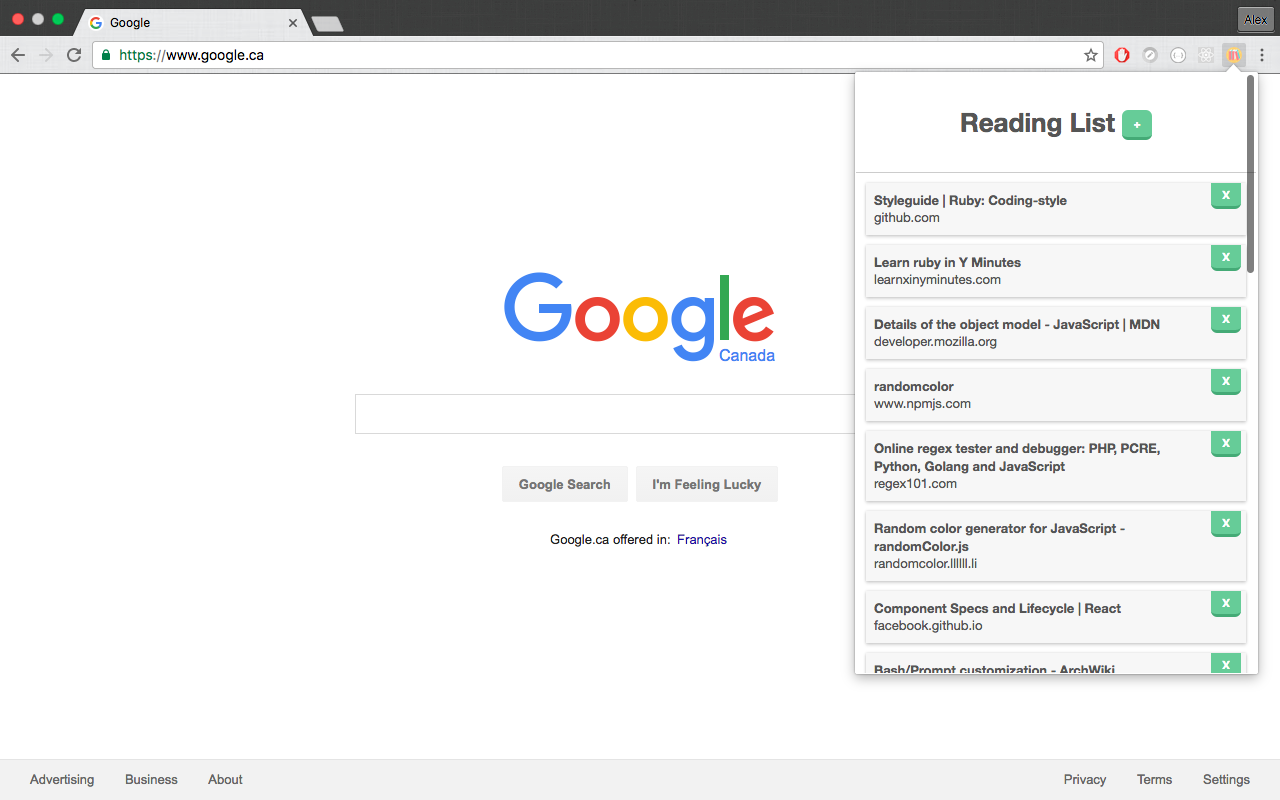
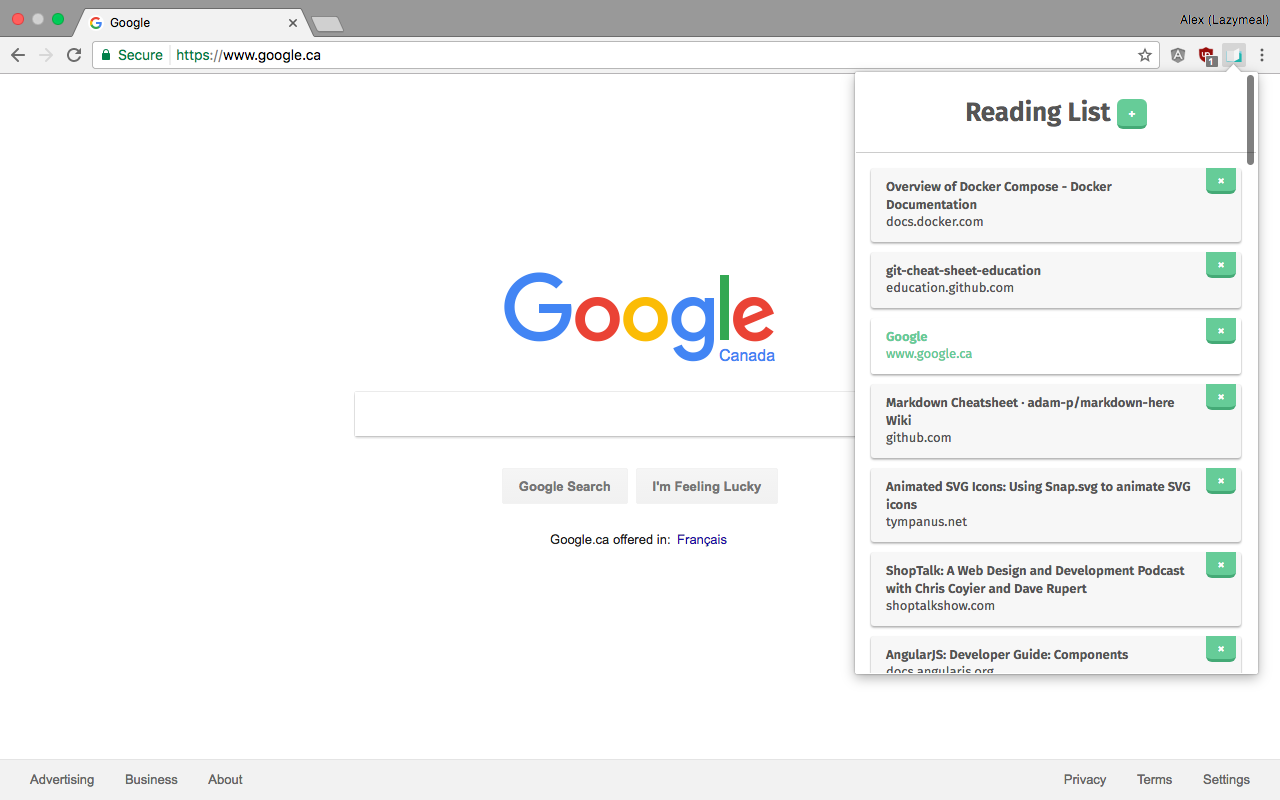
Updated readme and screenshots

diff --git a/README.md b/README.md
@@ -3,6 +3,10 @@ A Chrome extension for saving pages to read later. Free on the [Chrome Web Store
 
 ![Chrome Reading List extension](screenshot.png)
 
+The latest version features nifty animations!
+
+![Chrome Reading List add item animation](add-item-gif.gif)
+
 ## Putting it to Use
 
 ### Installation
@@ -28,7 +32,8 @@ Or, if you would rather do it the hard way:
 
 ## Todo
 
-  - Refactor way pages are stored—store the reading list array, instead of each page as its own storage object
+  - <del>Refactor way pages are stored—store the reading list array, instead of each page as its own storage object</del>
+    - Turns out the whole list as an array can result in going over the storage limits for a single item and delete the whole list
   - Save favicons and display them in the reading list
   - Add a check to see if the user’s browser allows CSS animations, and provide backups if it does not
   - Add a directory structure to organize reading list items (maybe)
